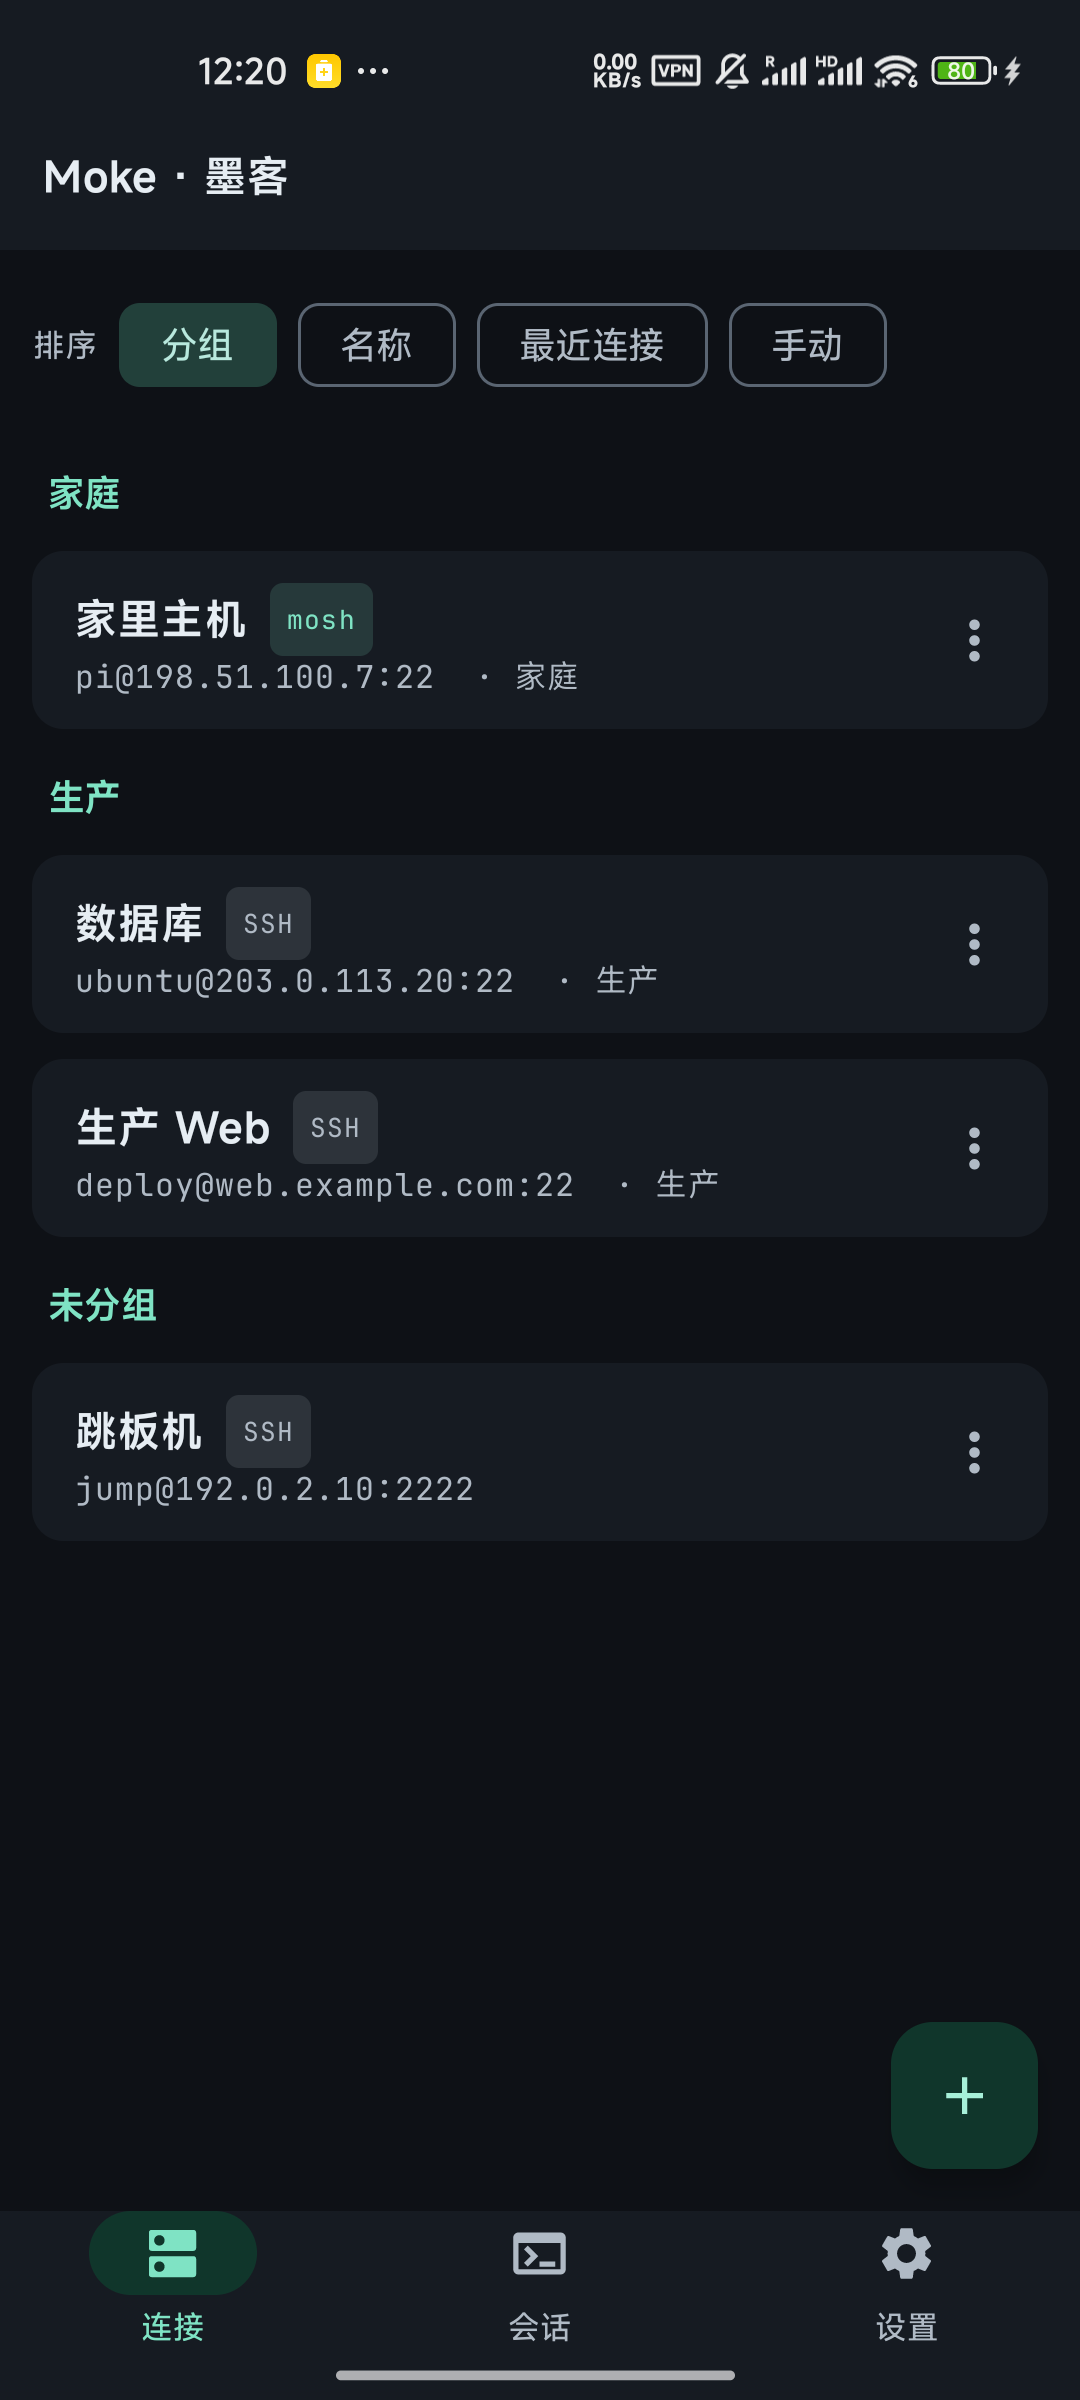
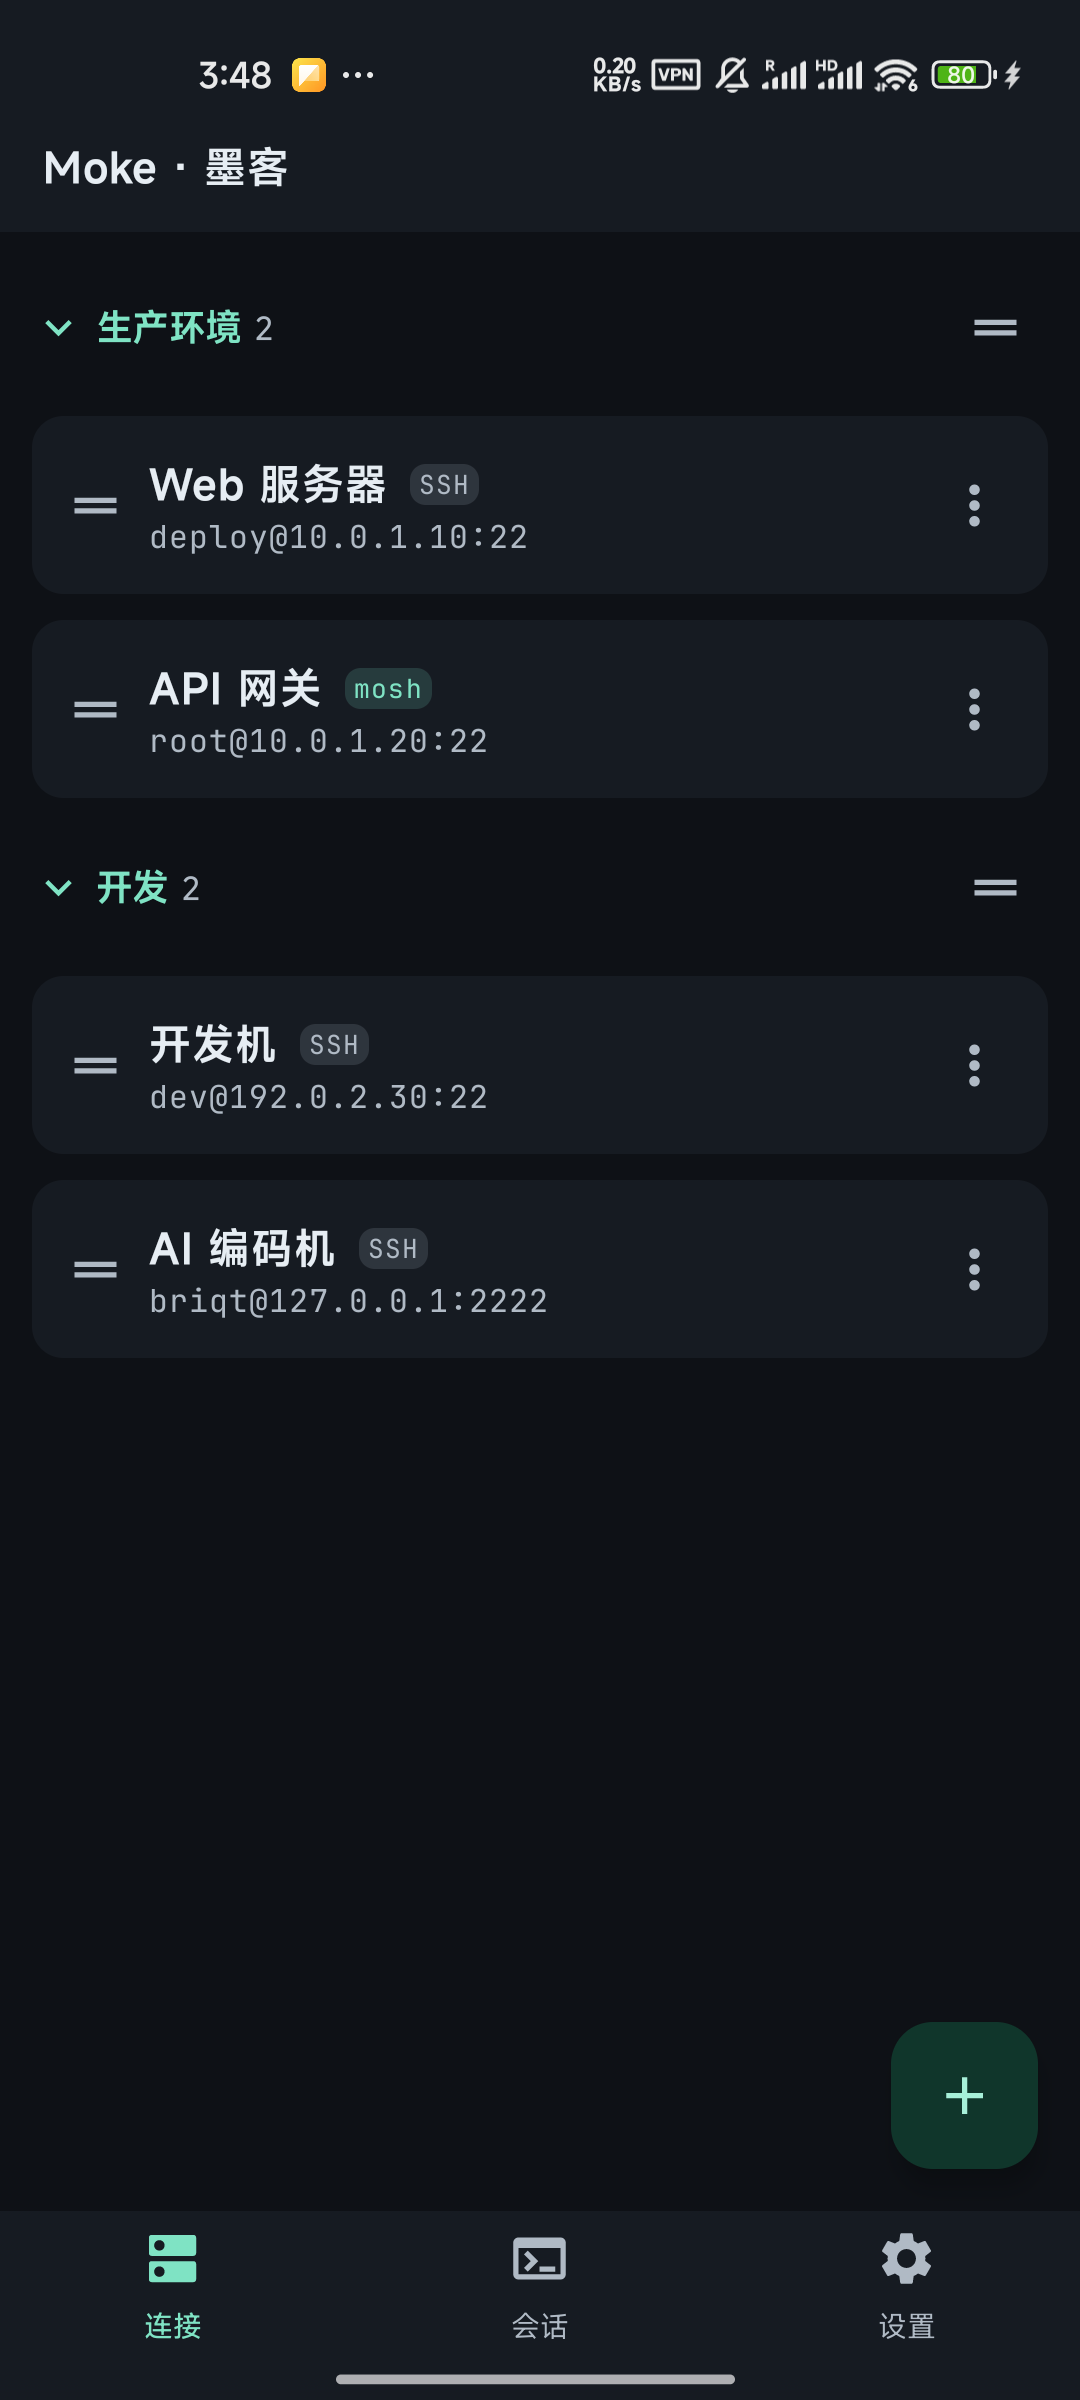
docs: 更新为 4 张真机中文界面截图（连接管理 / 终端跑 Claude Code / 外观 / 多会话）

diff --git a/README.md b/README.md
@@ -30,8 +30,8 @@ Moke is a native SSH / mosh terminal for Android. It connects directly inside th
 ## Screenshots
 
 <div align="center">
-<img src="docs/screenshot-terminal.png" alt="Terminal running Claude Code" width="264"/>&nbsp;<img src="docs/screenshot-connections.png" alt="Host management" width="264"/>&nbsp;<img src="docs/screenshot-appearance.png" alt="Appearance settings" width="264"/>
-<br/><sub>Terminal (SSH running Claude Code) · Host management · Appearance</sub>
+<img src="docs/screenshot-connections.png" alt="Host management" width="200"/>&nbsp;<img src="docs/screenshot-terminal.png" alt="Terminal running Claude Code over SSH" width="200"/>&nbsp;<img src="docs/screenshot-appearance.png" alt="Appearance settings" width="200"/>&nbsp;<img src="docs/screenshot-sessions.png" alt="Multiple sessions" width="200"/>
+<br/><sub>Host management · Terminal (SSH running Claude Code) · Appearance · Multiple sessions</sub>
 </div>
 
 ## Install